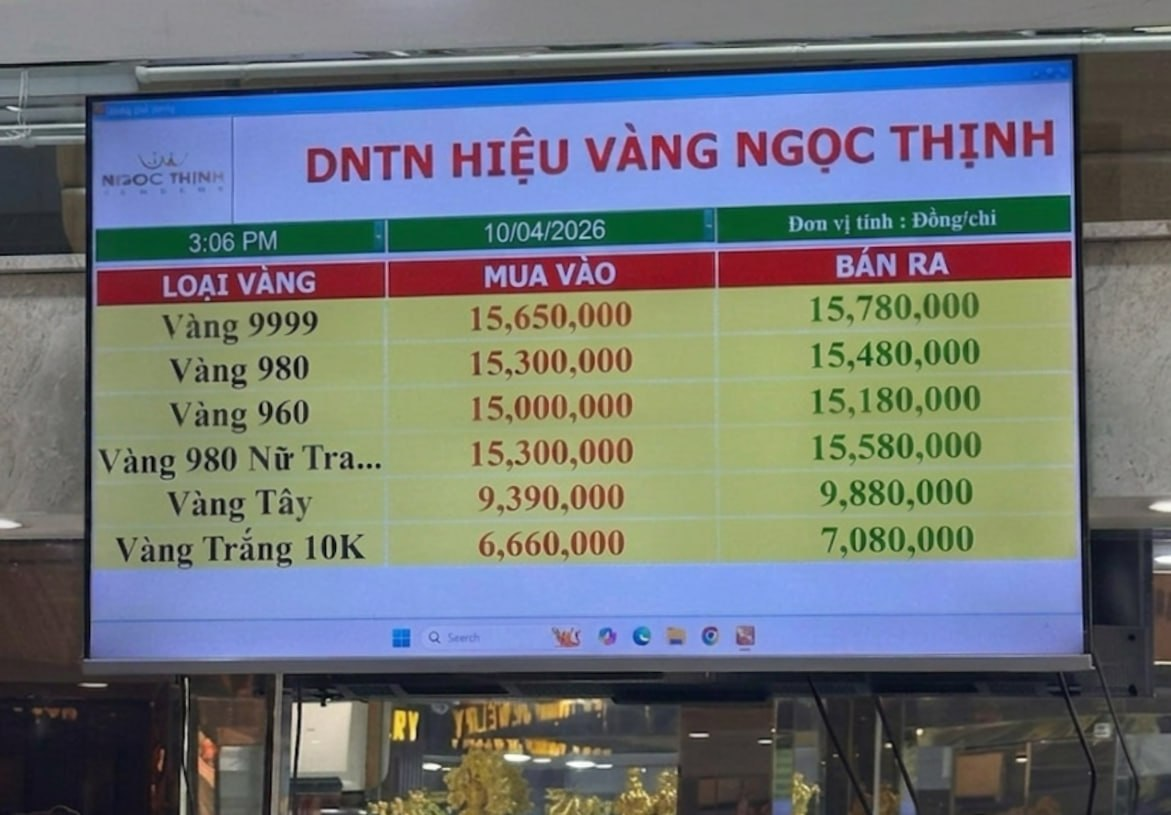
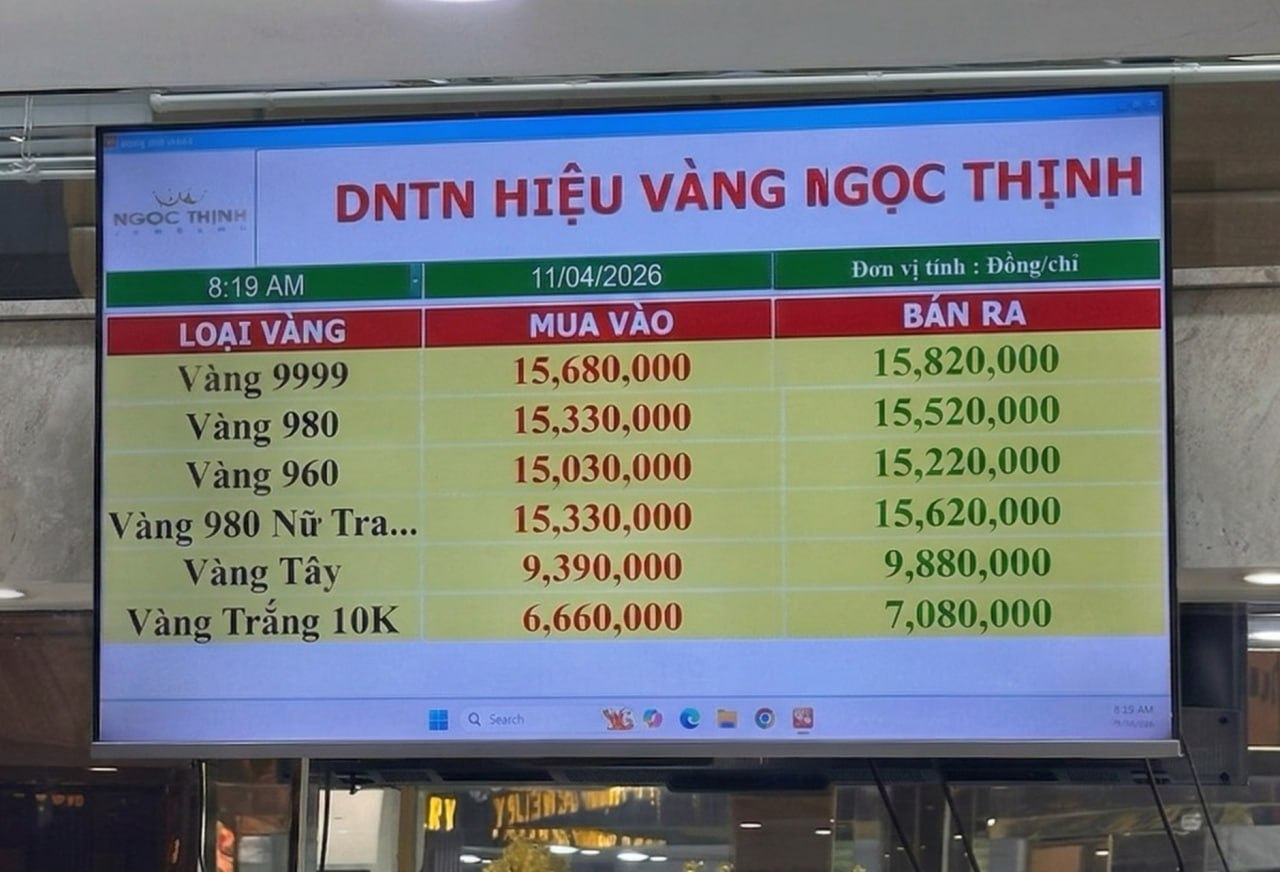
Update ngoc-thinh price image (08:15)

diff --git a/app/data/goldShops.ts b/app/data/goldShops.ts
@@ -19,7 +19,7 @@ export const GOLD_SHOPS: GoldShop[] = [
     name: "Ngọc Thịnh",
     location: "Đà Nẵng",
     image: "images/ngoc-thinh.jpg",
-    updatedAt: "15:09",
+    updatedAt: "08:15",
   },
   {
     id: "kim-khanh-viet-hung",
